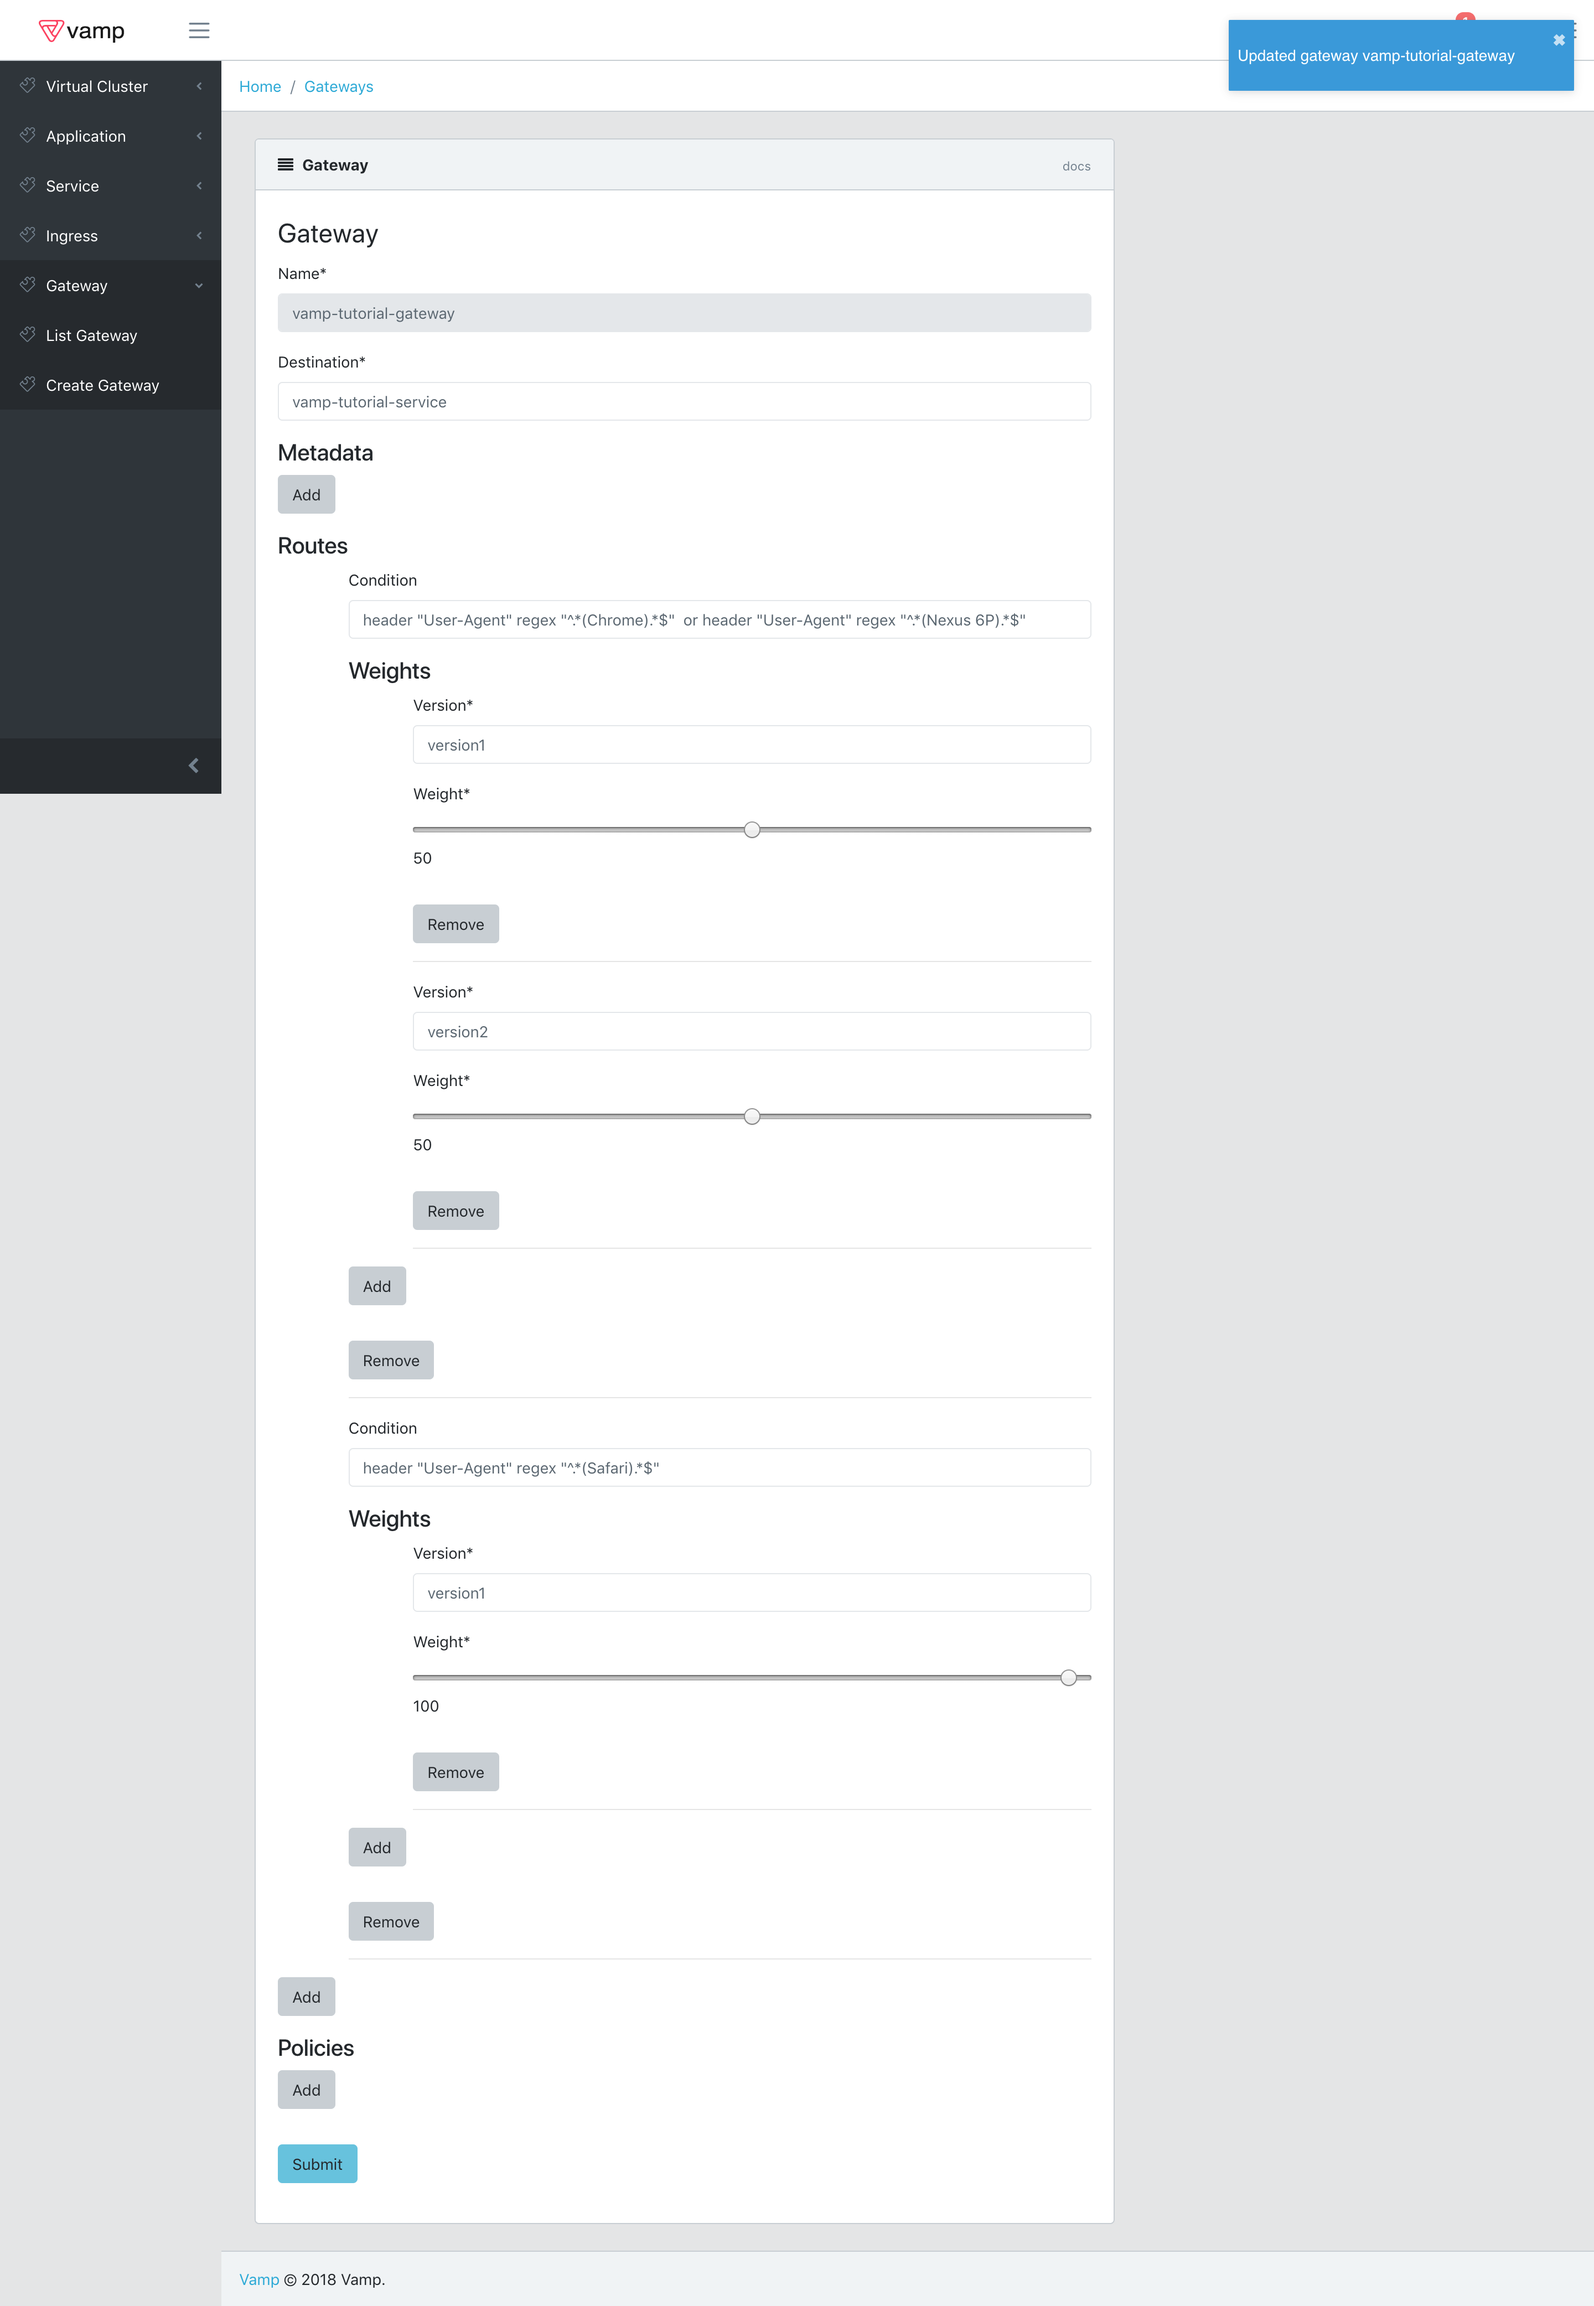
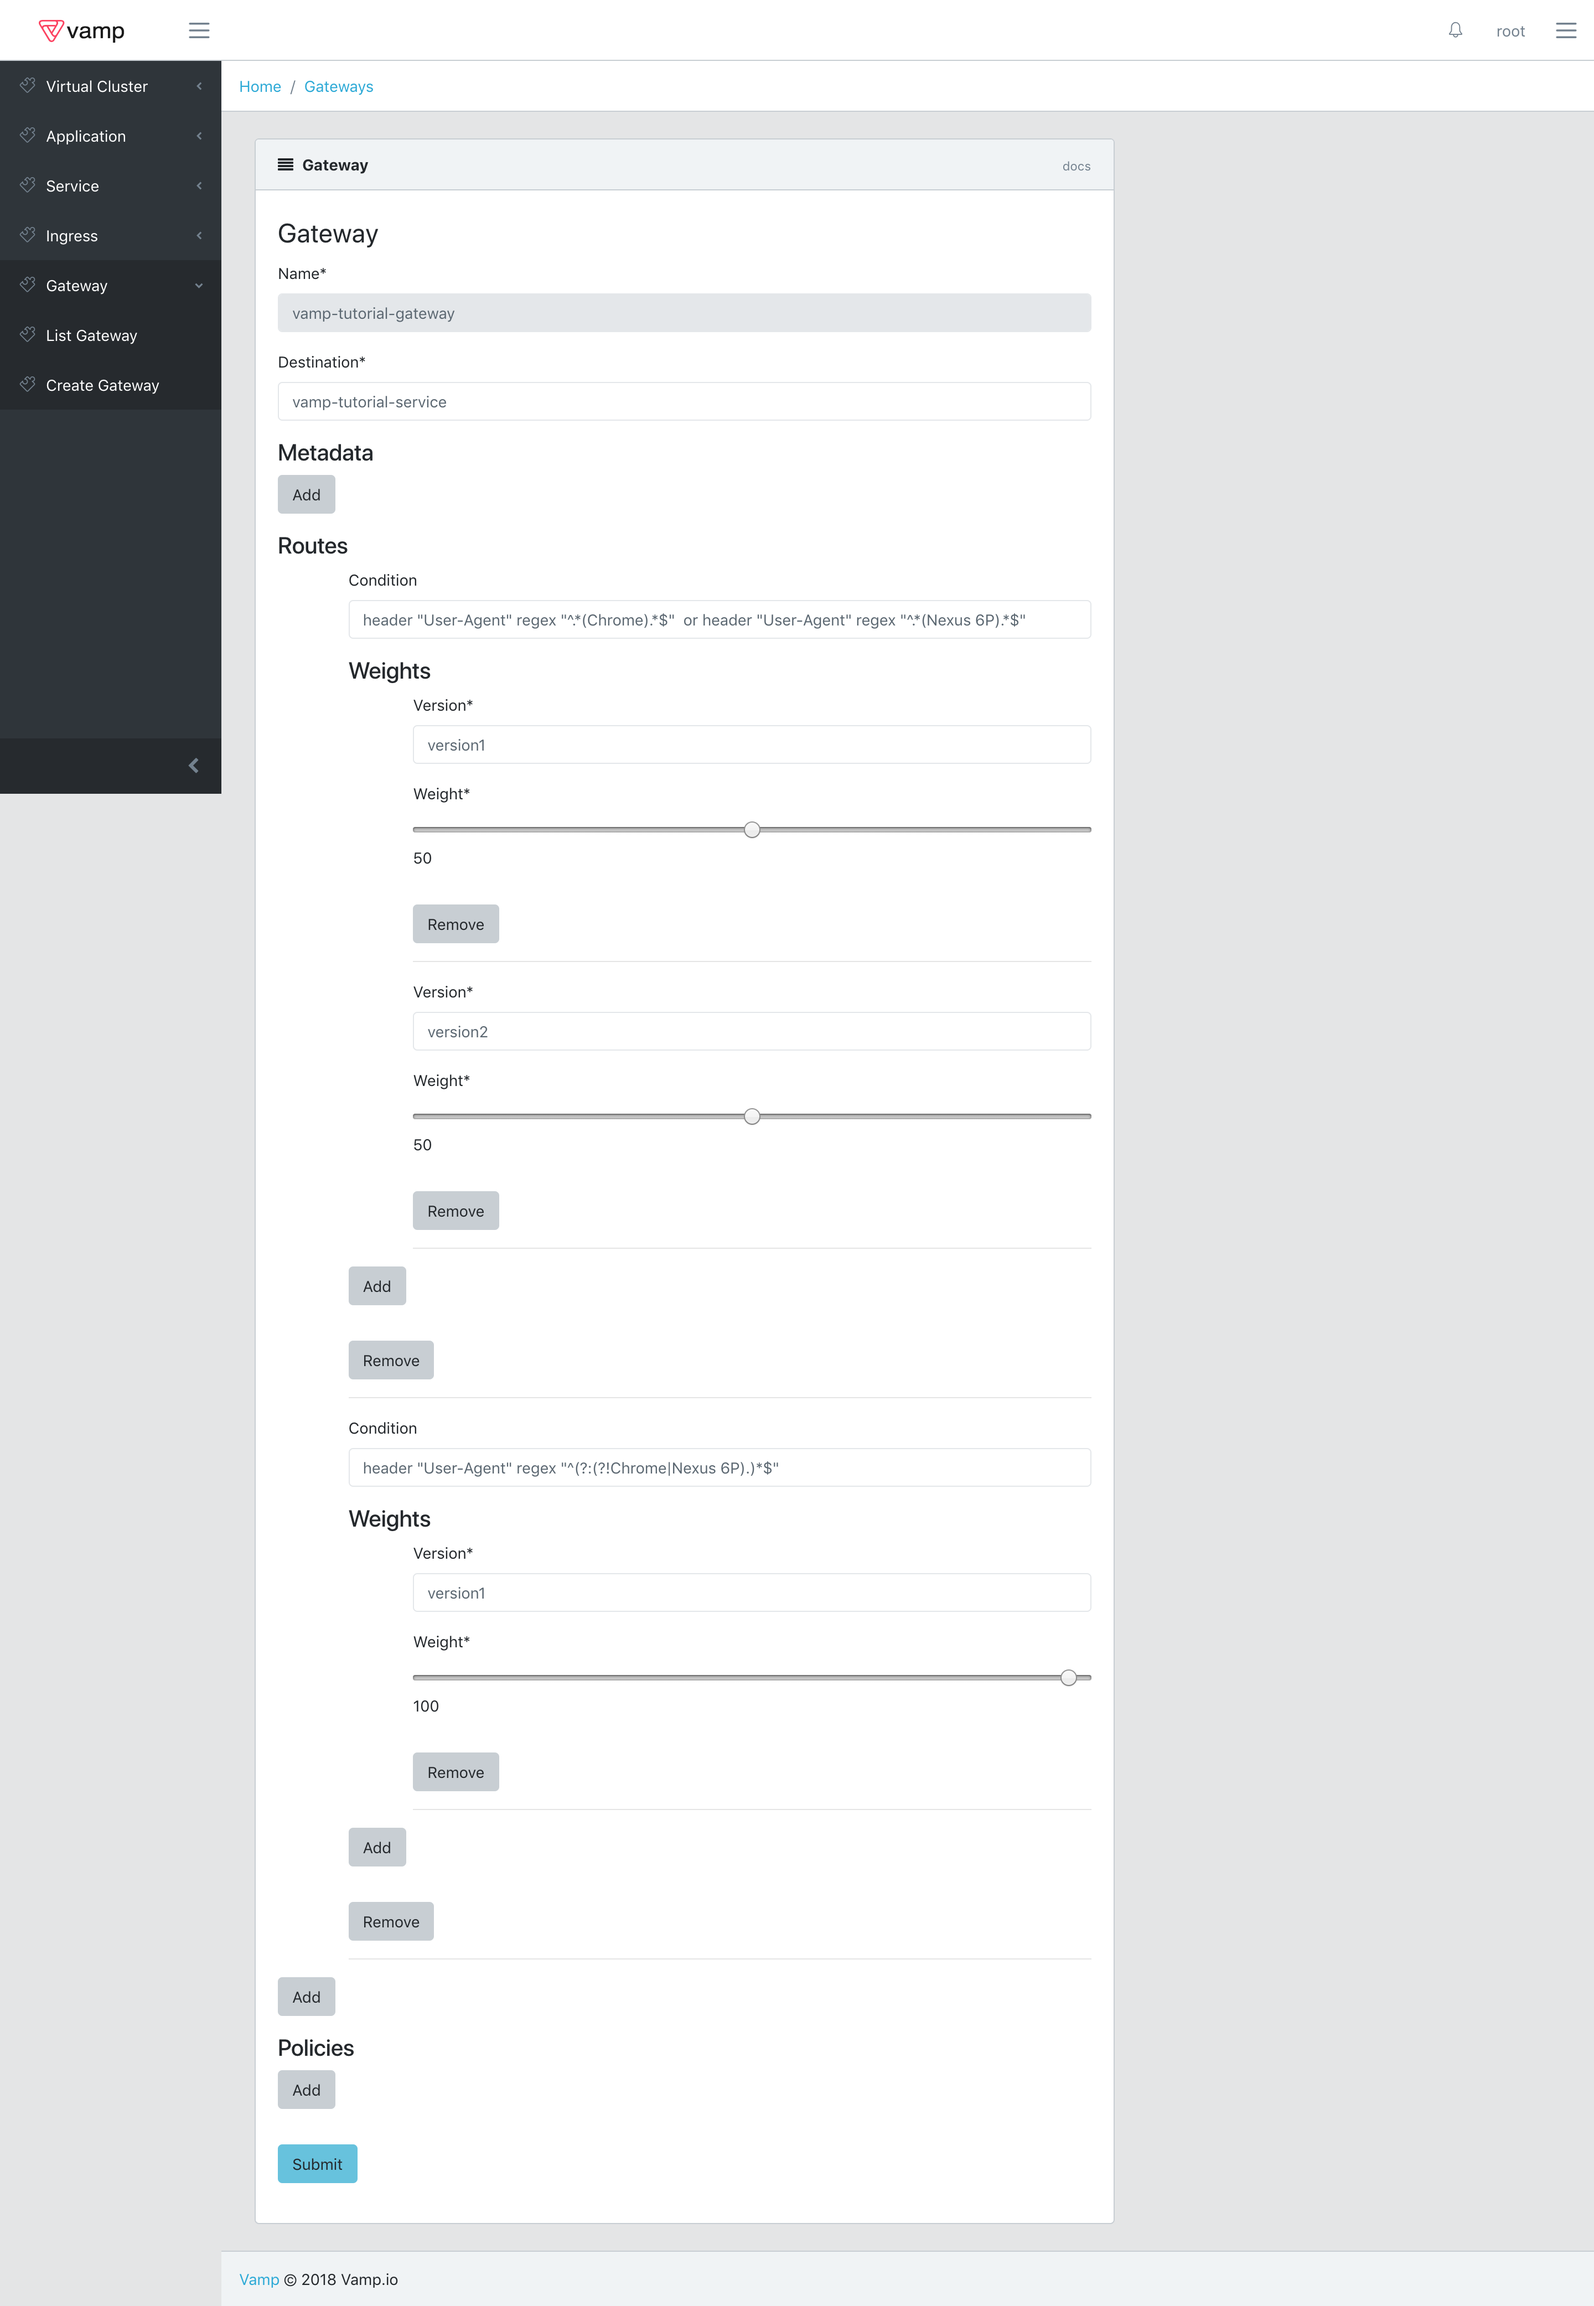
Changed condition example

Changed region(s): [[0.75, 0.0, 1.0, 0.0624]]

diff --git a/README.md b/README.md
@@ -408,20 +408,20 @@ kubectl get routerule -n-vamp-tutorial
 ````
 
 This time you will be presented with two routerules vamp-tutorial-gateway-0 and vamp-tutorial-gateway-1.
-The reason for this is that or conditions cannot be handled by a single istio route rule, so it's necessary to create two with different priorities.
+The reason for this is that OR conditions cannot be handled by a single istio route rule, so it's necessary to create two with different priorities.
 You might also find yourself in a situation in which you want to specify different weights for each condtion.
 In order to do thta, click on the add button and you will be able to configure a new route with its own condition and set of weights.
 You can for example set the following condition:
 
 ````
-header "User-Agent" regex "^.*(Safari).*$"
+header "User-Agent" regex "^(?:(?!Chrome|Nexus 6P).)*$"
 ````
 
 The gateway configuration will then look like the one shown below.
 
 ![](images/screen20.png)
 
-By doing this you will have all requests with User-Agent containing "Chrome" or "Nexus 6P" equally split between version1 and version2, while all requests with User-Agent containing "Safari" will be sent to version1.
+By doing this you will have all requests with User-Agent containing "Chrome" or "Nexus 6P" equally split between version1 and version2, while all other requests will be sent to version1.
 Checking again the configuration on Kubernetes will yield three route rules this time, since the third condition has to be handled separately.
 **Mind the fact that, due to a known Istio issue, if you specify a route with a condition, then all routes must also have a condition. Otherwise the Gateway will not work properly.**
 
